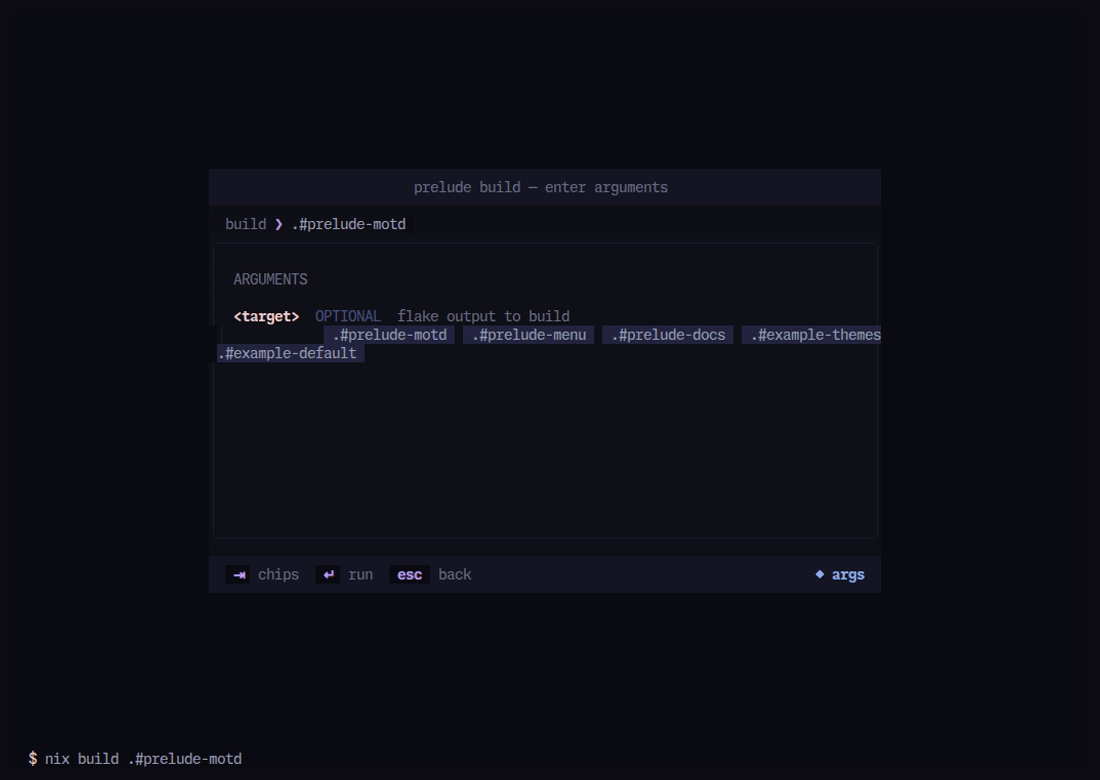
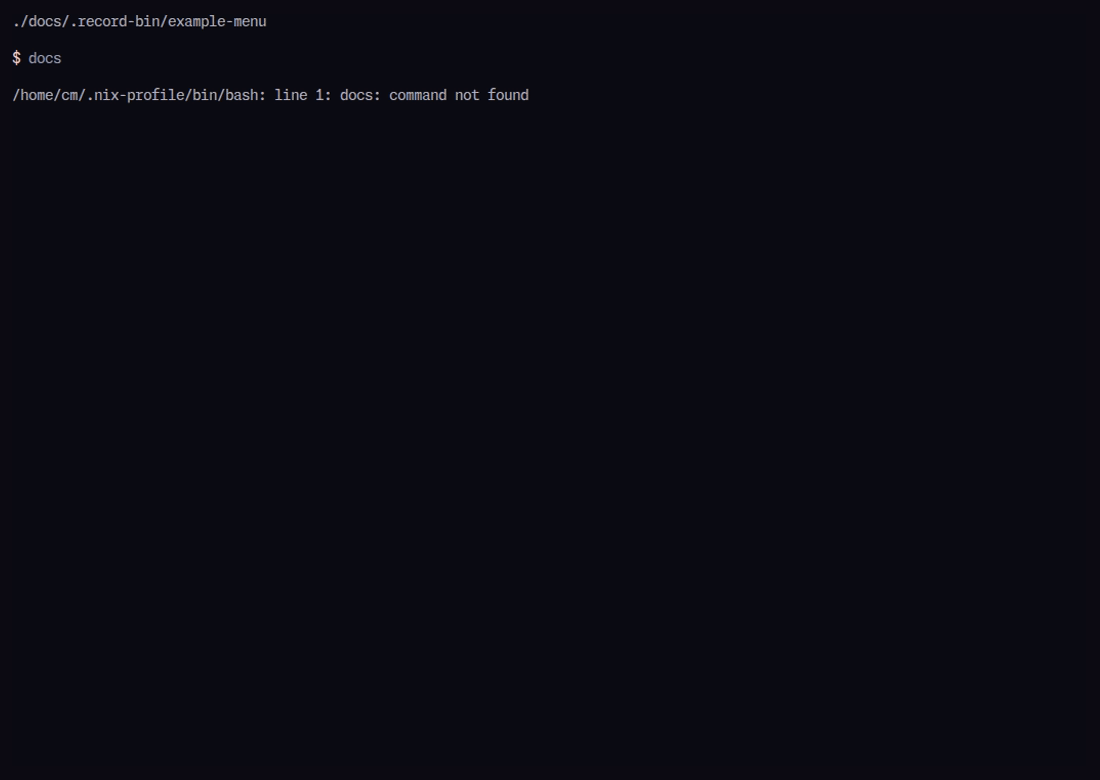
feat(menu): list ungrouped commands at the top
A key without `:` or `/` no longer falls under a default `develop`
group: it has no group, and the menu lists it above every heading,
alphabetically with the other ungrouped commands. `group = ""` lists a
grouped key there too. The Nix catalogue, the TypeScript port and its
conformance fixture, the wizard templates, the conventions guide and
the menu showcase move together.

diff --git a/ts/src/internal/catalogue.ts b/ts/src/internal/catalogue.ts
@@ -27,8 +27,9 @@ export function compare(a: string, b: string): number {
 /**
  * Mirrors `commandIdentity`: the first `:` or `/` splits the menu group from
  * the displayed label while the key stays whole (`go:test` and `go/test` →
- * group `go`, label `test`); later separators stay in the label. An explicit
- * group overrides the inferred one; ungrouped keys fall under `develop`.
+ * group `go`, label `test`); later separators stay in the label. A key with
+ * neither has no group (""), so the menu lists it without a heading. An
+ * explicit group overrides the inferred one, `""` included.
  */
 export function identity(key: string, explicitGroup?: string): { group: string; label: string } {
   if (!safeName.test(key)) {
@@ -36,17 +37,21 @@ export function identity(key: string, explicitGroup?: string): { group: string; 
   }
   const separator = key.search(/[:/]/);
   const grouped = separator !== -1;
-  const group = explicitGroup ?? (grouped ? key.slice(0, separator) : "develop");
+  const group = explicitGroup ?? (grouped ? key.slice(0, separator) : "");
   const label = grouped ? key.slice(separator + 1) : key;
-  if (group === "" || label === "") {
+  // A separator needs a name on each side, unless an explicit group replaces
+  // the one before it.
+  if (label === "" || (grouped && explicitGroup === undefined && group === "")) {
     throw new Error(`prelude: command key "${key}" must have non-empty segments around its first : or /`);
   }
   return { group, label };
 }
 
 /**
- * Groups commands the way `normalizeCommandGroups` does: the `prelude` group,
- * then groupOrder, then the rest alphabetically; each group sorted by label.
+ * Groups commands the way `normalizeCommandGroups` does: commands without a
+ * group first (no heading, so they can't read as part of the group above),
+ * then the `prelude` group, then groupOrder, then the rest alphabetically;
+ * each group sorted by label.
  */
 export function catalogue(commands: Readonly<Record<string, Command.Any>>, groupOrder: readonly string[] = []): Group[] {
   if (new Set(groupOrder).size !== groupOrder.length) {
@@ -61,9 +66,11 @@ export function catalogue(commands: Readonly<Record<string, Command.Any>>, group
   validate(entries);
 
   const available = [...new Set(entries.map((entry) => entry.group))];
-  const preferred = [...new Set(["prelude", ...groupOrder])].filter((group) => available.includes(group));
-  const remaining = available.filter((group) => !preferred.includes(group)).sort(compare);
-  return [...preferred, ...remaining].map((title) => ({
+  const ungrouped = available.includes("") ? [""] : [];
+  const named = available.filter((group) => group !== "");
+  const preferred = [...new Set(["prelude", ...groupOrder])].filter((group) => named.includes(group));
+  const remaining = named.filter((group) => !preferred.includes(group)).sort(compare);
+  return [...ungrouped, ...preferred, ...remaining].map((title) => ({
     title,
     entries: entries
       .filter((entry) => entry.group === title)

diff --git a/ts/test/catalogue.test.ts b/ts/test/catalogue.test.ts
@@ -21,25 +21,33 @@ describe("catalogue identity", () => {
         lint: shell("eslint .", { group: "quality" }),
       }),
     ).toEqual([
-      ["develop", ["build"]],
+      ["", ["build"]],
       ["go", ["test", "vet"]],
       ["quality", ["lint"]],
       ["test", ["e2e:headed", "unit:watch"]],
     ]);
   });
 
-  test("prelude's group comes first, then groupOrder, then the rest alphabetically", () => {
+  test("ungrouped commands come first, then prelude's group, then groupOrder, then the rest alphabetically", () => {
     expect(
       titles(
         {
           "z:one": shell("z1"),
           "a:one": shell("a1"),
           "db:up": shell("up"),
+          deploy: shell("deploy"),
+          "ui/build": shell("vite build", { group: "" }),
           docs: Command.make({ group: "prelude", run: () => {} }),
         },
         ["db"],
-      ).map(([title]) => title),
-    ).toEqual(["prelude", "db", "a", "z"]);
+      ),
+    ).toEqual([
+      ["", ["build", "deploy"]],
+      ["prelude", ["docs"]],
+      ["db", ["up"]],
+      ["a", ["one"]],
+      ["z", ["one"]],
+    ]);
   });
 
   test("rejects keys and shortcuts the dispatcher cannot resolve", () => {

diff --git a/ts/src/Command.ts b/ts/src/Command.ts
@@ -18,7 +18,7 @@ export interface RunContext {
 /** Metadata every command carries, as `prelude.commands.<key>` does in Nix. */
 interface Info<Specs extends readonly Args.Spec[]> {
   description?: string;
-  /** Menu group. Default: the key's segment before its first `:` or `/`, else `develop`. */
+  /** Menu group. Default: the key's segment before its first `:` or `/`, else none (listed without a heading). */
   group?: string;
   /** Single-character accelerator in the picker (Nix: `key`). */
   shortcut?: string;

diff --git a/src/internal/menu/sources_test.go b/src/internal/menu/sources_test.go
@@ -69,3 +69,19 @@ func TestWriteImportsListsTheImportsXDispatches(t *testing.T) {
 		t.Fatalf("writeImports = %q, want %q", out.String(), want)
 	}
 }
+
+func TestListShowsUngroupedCommandsFirstWithoutAHeading(t *testing.T) {
+	cfg := testMenuConfig()
+	cfg.Groups = []Group{
+		{Title: "", Tasks: []Task{{Name: "build", Description: "compile the app"}}},
+		{Title: "db", Tasks: []Task{{Name: "db/migrate", Label: "migrate", Description: "apply migrations"}}},
+	}
+
+	lines := listLines(cfg)
+	if !strings.HasPrefix(lines[0], "build") {
+		t.Fatalf("an ungrouped command should open the list with no heading above it:\n%s", strings.Join(lines, "\n"))
+	}
+	if !slices.Contains(lines, "DB") {
+		t.Fatalf("a named group keeps its heading:\n%s", strings.Join(lines, "\n"))
+	}
+}

diff --git a/src/internal/wizard/wizard_config.go b/src/internal/wizard/wizard_config.go
@@ -208,7 +208,7 @@ func inferredCommandExec(name string) string {
 
 // inferredCommandGroup mirrors prelude's catalogue identity: builtins land in
 // "prelude", grouped keys use the segment before the first `:` or `/`, and
-// everything else is "develop".
+// everything else has no group ("", listed without a heading).
 func inferredCommandGroup(name string) string {
 	switch name {
 	case "x", "docs":
@@ -217,7 +217,7 @@ func inferredCommandGroup(name string) string {
 	if i := strings.IndexAny(name, ":/"); i > 0 {
 		return name[:i]
 	}
-	return "develop"
+	return ""
 }
 
 // commentLines prefixes every line with "# " so a whole block can be shipped

diff --git a/src/internal/wizard/wizard_test.go b/src/internal/wizard/wizard_test.go
@@ -921,7 +921,7 @@ func TestRenderWizardConfigEmitsOptionsTemplate(t *testing.T) {
 		"# maxWidth = 80;",
 		"prompt = {",
 		"docs.pages = [ ];",
-		`# sort.groups = [ "develop" "database" "ops" ];`,
+		`# sort.groups = [ "database" "ops" ];`,
 		"packages = [ config.packages.prelude-shell ];",
 	} {
 		if !strings.Contains(got, fragment) {

diff --git a/docs/guides/command-conventions.md b/docs/guides/command-conventions.md
@@ -60,7 +60,8 @@ test:unit:watch
 public invocation: x test:unit:watch
 ```
 
-An ungrouped key such as `build` appears in the default `develop` group.
+An ungrouped key such as `build` has no group: the menu lists it at the top,
+above every heading, alphabetically with the other ungrouped commands.
 Prelude-owned navigation commands appear in `prelude`.
 
 ### Explicit group override
@@ -77,10 +78,10 @@ prelude.commands.lint = {
 ```
 
 `lint` stays on PATH (no `:` or `/` → `grouped` is false) and is callable as
-`x lint`, but the menu places it under `quality` instead of the default
-`develop` group. The override also applies to colon-keyed commands —
-setting `group = "ci"` on `go:test` moves it to `ci` while keeping the
-`x go:test` dispatch form.
+`x lint`, but the menu places it under `quality` instead of at the top. The
+override also applies to grouped keys: setting `group = "ci"` on `go:test`
+moves it to `ci` while keeping the `x go:test` dispatch form, and
+`group = ""` lists it at the top without a heading.
 
 Because keys are unique within the catalogue, command resolution is exact and
 deterministic: there is no discriminator syntax. When an import produces a key

diff --git a/docs/reference/options.md b/docs/reference/options.md
@@ -367,9 +367,9 @@ null
 
 Menu group override\. When null, the group is inferred from the
 segment before the key’s first ` : ` or ` / ` (` go:test ` and ` go/test ` →
-group ` go `); ungrouped keys land in ` develop `\. Set this to place a
-command under a different group without prefixing the key — useful
-for Justfile recipes and other imports where the key should stay flat\.
+group ` go `); a key without either has no group and lists above every
+heading\. Set this to place a command under a group without prefixing
+the key, or to ` "" ` to list a grouped key without a heading\.
 
 
 
@@ -3684,7 +3684,7 @@ TOML value
 
 
 
-Preferred command-group order\. Groups omitted from this list follow alphabetically; Prelude’s own group remains first\.
+Preferred command-group order\. Commands without a group list above every heading, then Prelude’s own group; groups omitted from this list follow alphabetically\.
 
 
 
@@ -3697,7 +3697,6 @@ list of string
 
 ```nix
 [
-  "develop"
   "database"
   "ops"
 ]
@@ -3709,7 +3708,6 @@ list of string
 
 ```nix
 [
-  "develop"
   "database"
   "deploy"
 ]

diff --git a/docs/superpowers/specs/2026-10-01-command-sources-design.md b/docs/superpowers/specs/2026-10-01-command-sources-design.md
@@ -56,7 +56,7 @@ One command catalogue gathers commands from every place a project already keeps 
 
 | `source` | Enabled by | Group for keys without a colon | `run` | `dir` | `pathPrefix` |
 | --- | --- | --- | --- | --- | --- |
-| `declared` | `prelude.commands`, `Menu.make({ commands })` | `develop` | `exec`, else the key | caller's | — |
+| `declared` | `prelude.commands`, `Menu.make({ commands })` | none: listed at the top, without a heading | `exec`, else the key | caller's | — |
 | `host` | `prelude.menu.hosts.<name>` | `<name>` | `<command> <key>` | project root | — |
 | `just` | `prelude.menu.just`, `Menu.make({ just })` | `just.group` (`just`) | `just [--justfile f] <recipe>` | caller's | — |
 | `scripts` | `prelude.menu.scripts`, `Menu.make({ scripts })` | `scripts.group` (`scripts`) | the script text | the `package.json` directory | each `node_modules/.bin` upward |

diff --git a/ts/README.md b/ts/README.md
@@ -85,7 +85,8 @@ A command has no name of its own. Its key comes from where it is mounted
 (`commands: { "db:migrate": migrate }`), so modules export commands without
 claiming public names. As in the devshell, the first `:` or `/` picks the
 menu group (`db:migrate` and `db/migrate` → group `db`, label `migrate`),
-`group` overrides it, and ungrouped keys fall under `develop`.
+`group` overrides it, and a key with neither lists at the top of the menu,
+without a heading.
 
 ## Surfaces
 
